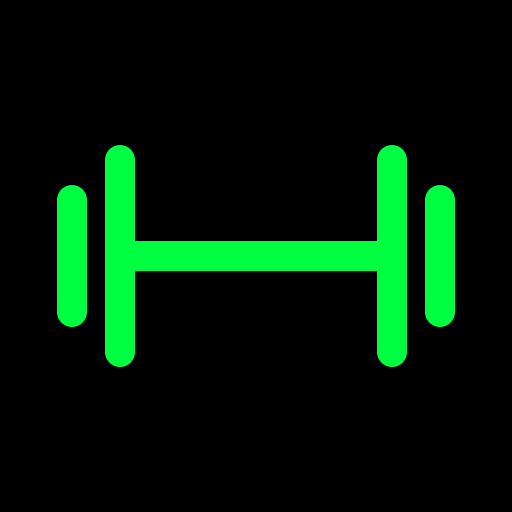
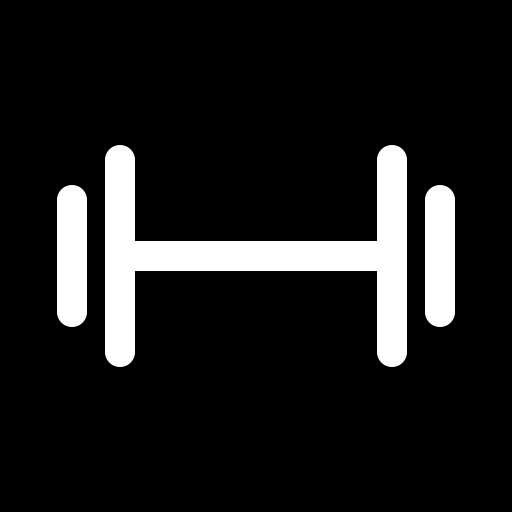
1.0.2: black-and-white theme

Changed region(s): [[0.0938, 0.2812, 0.9062, 0.7188]]

diff --git a/css/app.css b/css/app.css
@@ -10,9 +10,9 @@ nav { position: fixed; inset: auto 0 0 0; display: flex; background: #000; borde
   padding-bottom: env(safe-area-inset-bottom); z-index: 5; }
 nav a { flex: 1; display: flex; flex-direction: column; align-items: center; gap: 2px; padding: 8px 0 6px;
   color: var(--text-2); text-decoration: none; font-size: 11px; letter-spacing: 1px; }
-nav svg { width: 24px; height: 24px; fill: none; stroke: var(--green-dim); stroke-width: 2; stroke-linecap: square; }
+nav svg { width: 24px; height: 24px; fill: none; stroke: var(--accent-dim); stroke-width: 2; stroke-linecap: square; }
 nav a[aria-current] { color: var(--text); }
-nav a[aria-current] svg { stroke: var(--green); filter: drop-shadow(0 0 3px var(--glow)); }
+nav a[aria-current] svg { stroke: var(--accent); filter: drop-shadow(0 0 3px var(--glow)); }
 
 .logo { font: 900 18px var(--head); color: var(--text); }
 .workout { display: flex; align-items: flex-end; gap: 14px; font: 900 40px/.9 var(--head); letter-spacing: -1px; }
@@ -27,18 +27,18 @@ button.reminder { width: 100%; min-height: 44px; background: none; border: 0; bo
 .card { display: grid; grid-template-columns: 66px minmax(0, 1fr) 44px; gap: 10px;
   align-items: start; background: var(--surface); border: 1px solid var(--line); padding: 10px; cursor: pointer; }
 .card.opt:not(.sel) > .ico, .card.opt:not(.sel) > .mid, .card.opt:not(.sel) > .done { opacity: .4; }
-.card.opt.sel { border-color: var(--green); box-shadow: 0 0 0 1px var(--green) inset; }
+.card.opt.sel { border-color: var(--accent); box-shadow: 0 0 0 1px var(--accent) inset; }
 .card.plain { grid-template-columns: 66px minmax(0, 1fr); color: inherit; text-decoration: none; margin-bottom: 8px; }
 .card.plain .badge { margin: 6px 8px 0 0; }
 .title { display: block; width: 100%; min-height: 44px; padding: 0 0 6px; background: none; border: 0; text-align: left; }
 .title span { display: block; }
-.card.isdone .ru { text-decoration: line-through; text-decoration-color: var(--green); text-decoration-thickness: 2px; }
+.card.isdone .ru { text-decoration: line-through; text-decoration-color: var(--accent); text-decoration-thickness: 2px; }
 button.badge { min-height: 32px; padding: 2px 10px; }
 .last { margin-top: 6px; font-size: 12px; color: var(--text-2); }
 .done { align-self: center; justify-self: center; position: relative; width: 34px; height: 34px; padding: 0;
-  background: #000; border: 1px solid var(--green-dim); color: #000; font: 700 22px/1 var(--mono); }
+  background: #000; border: 1px solid var(--accent-dim); color: #000; font: 700 22px/1 var(--mono); }
 .done::before { content: ""; position: absolute; inset: -6px; } /* 46px touch target */
-.done[aria-checked="true"] { background: var(--green); border-color: var(--green); }
+.done[aria-checked="true"] { background: var(--accent); border-color: var(--accent); }
 .done[aria-checked="true"]::after { content: "✓"; }
 .addnote { display: inline-block; min-height: 32px; margin: 8px 8px 0 0; padding: 2px 10px; background: none;
   border: 1px dashed var(--line); color: var(--text-2); font-size: 11px; letter-spacing: 1px; }
@@ -50,7 +50,7 @@ button.badge { min-height: 32px; padding: 2px 10px; }
 
 .chips { display: flex; gap: 6px; overflow-x: auto; padding: 10px 0 2px; }
 .chip { flex: none; min-height: 44px; padding: 0 12px; background: #000; border: 1px solid var(--line); color: var(--text-2); }
-.chip[aria-pressed="true"] { background: var(--green); border-color: var(--green); color: #000; }
+.chip[aria-pressed="true"] { background: var(--accent); border-color: var(--accent); color: #000; }
 
 .head { display: flex; gap: 12px; align-items: center; margin: 8px 0; }
 .hero, .onerm { font: 700 40px/1.2 var(--mono); color: var(--text); }
@@ -63,11 +63,11 @@ button.badge { min-height: 32px; padding: 2px 10px; }
   background: rgba(0, 0, 0, .75); }
 .backdrop.center { align-items: center; padding: 24px; }
 .sheet { width: 100%; max-width: 640px; max-height: calc(100dvh - env(safe-area-inset-top) - 12px); overflow-y: auto;
-  overscroll-behavior: contain; background: var(--surface-raised); border-top: 1px solid var(--green);
+  overscroll-behavior: contain; background: var(--surface-raised); border-top: 1px solid var(--accent);
   padding: 8px 16px calc(env(safe-area-inset-bottom) + 20px); outline: none; }
 .sheet-top { display: flex; justify-content: space-between; align-items: center; }
 .x { width: 44px; height: 44px; background: none; border: 0; color: var(--text); font-size: 26px; }
-.dialog { max-width: 420px; background: var(--surface-raised); border: 1px solid var(--green); padding: 16px; }
+.dialog { max-width: 420px; background: var(--surface-raised); border: 1px solid var(--accent); padding: 16px; }
 .dialog .row .btn { flex: 1; }
 .previous { border: 1px solid var(--line); padding: 8px 10px; margin: 10px 0; }
 .weight { text-align: center; }
@@ -76,14 +76,14 @@ input.bignum, .bignum { width: 100%; text-align: center; font: 700 64px/1.2 var(
 .under { text-align: center; color: var(--text-2); }
 .stepper { display: grid; grid-template-columns: 1fr 44px 48px 44px; align-items: center; gap: 6px; margin: 10px 0; }
 .stepper output { text-align: center; font-size: 24px; color: var(--text); }
-.sq { min-width: 44px; height: 44px; background: #000; border: 1px solid var(--green); border-radius: 3px; color: var(--text); font-size: 20px; }
-.btn.primary.sq { background: var(--green); color: #000; }
+.sq { min-width: 44px; height: 44px; background: #000; border: 1px solid var(--accent); border-radius: 3px; color: var(--text); font-size: 20px; }
+.btn.primary.sq { background: var(--accent); color: #000; }
 .icongrid { display: grid; grid-template-columns: repeat(auto-fill, minmax(70px, 1fr)); gap: 6px; max-height: 240px; overflow-y: auto; }
 .pickicon { display: flex; justify-content: center; padding: 2px; background: #000; border: 1px solid transparent; }
-.pickicon[aria-pressed="true"] { border-color: var(--green); box-shadow: 0 0 8px var(--glow); }
+.pickicon[aria-pressed="true"] { border-color: var(--accent); box-shadow: 0 0 8px var(--glow); }
 
 .toast, .update { position: fixed; left: 12px; right: 12px; bottom: calc(env(safe-area-inset-bottom) + 68px);
-  background: var(--surface-raised); border: 1px solid var(--green); padding: 10px 12px; }
+  background: var(--surface-raised); border: 1px solid var(--accent); padding: 10px 12px; }
 .toast { z-index: 30; border-color: var(--red); }
 .update { z-index: 8; display: flex; justify-content: space-between; align-items: center; }
 .record { position: fixed; inset: 0; z-index: 40; display: flex; flex-direction: column; align-items: center;

diff --git a/css/theme.css b/css/theme.css
@@ -1,9 +1,9 @@
 /* Color tokens, fonts and base components. Dark only. */
 :root {
-  --bg: #000000; --surface: #050A05; --surface-raised: #0B160B; --line: #003B00;
-  --green: #00FF41; --green-dim: #008F11; --text: #FFFFFF; --text-2: #B3B3B3;
+  --bg: #000000; --surface: #080808; --surface-raised: #121212; --line: #333333;
+  --accent: #FFFFFF; --accent-dim: #8C8C8C; --text: #FFFFFF; --text-2: #B3B3B3;
   --red: #FF2B2B; --blue: #2F6BFF;
-  --glow: rgba(0, 255, 65, .6);
+  --glow: rgba(255, 255, 255, .6);
   --mono: ui-monospace, "SF Mono", Menlo, monospace;
   --head: -apple-system, "SF Pro Display", system-ui, sans-serif;
   color-scheme: dark;
@@ -23,11 +23,11 @@ h1 { font: 900 42px/.95 var(--head); font-stretch: condensed; text-transform: up
 button, .card, nav a { -webkit-user-select: none; user-select: none; }
 button { font: inherit; color: inherit; cursor: pointer; }
 button:disabled { opacity: .5; }
-:focus-visible { outline: 2px solid var(--green); outline-offset: 2px; }
+:focus-visible { outline: 2px solid var(--accent); outline-offset: 2px; }
 .btn { display: inline-flex; align-items: center; justify-content: center; min-width: 44px; min-height: 44px;
-  padding: 8px 14px; background: var(--bg); border: 1px solid var(--green); border-radius: 3px; color: var(--text);
+  padding: 8px 14px; background: var(--bg); border: 1px solid var(--accent); border-radius: 3px; color: var(--text);
   font: 700 14px var(--mono); letter-spacing: 1px; text-decoration: none; text-align: center; }
-.btn.primary { background: var(--green); color: #000; }
+.btn.primary { background: var(--accent); color: #000; }
 .btn.danger { background: var(--red); border-color: var(--red); color: #000; }
 .btn.danger-line { border-color: var(--red); color: var(--red); }
 .btn.dashed { border: 1px dashed var(--line); color: var(--text-2); }
@@ -37,25 +37,25 @@ button:disabled { opacity: .5; }
 .btn.sq { width: 44px; padding: 0; font-size: 20px; flex: none; }
 .btn.plain { justify-content: flex-start; text-align: left; border-color: var(--line); color: var(--text); }
 .btn.toggle { border-color: var(--line); color: var(--text-2); width: 100%; margin: 8px 0; }
-.btn.toggle[aria-pressed="true"] { border-color: var(--green); background: var(--green); color: #000; }
+.btn.toggle[aria-pressed="true"] { border-color: var(--accent); background: var(--accent); color: #000; }
 .flash { animation: flash 150ms ease-out; }
 @keyframes flash { 50% { box-shadow: 0 0 22px 6px var(--glow); } }
 
 /* 16px minimum: iOS zooms into smaller inputs. */
 input, select { font: 16px var(--mono); color: var(--text); background: var(--bg); border: 1px solid var(--line);
-  border-radius: 3px; min-height: 44px; padding: 8px 10px; width: 100%; caret-color: var(--green); }
-input:focus, select:focus { border-color: var(--green); outline: none; }
+  border-radius: 3px; min-height: 44px; padding: 8px 10px; width: 100%; caret-color: var(--accent); }
+input:focus, select:focus { border-color: var(--accent); outline: none; }
 /* WebKit ignores the height of a native select without this. */
 select { -webkit-appearance: menulist-button; height: 44px; }
 .field { display: block; margin: 10px 0; }
 
-.ico { flex: none; width: 66px; height: 66px; border: 1px solid var(--line); background: #000; color: var(--green);
+.ico { flex: none; width: 66px; height: 66px; border: 1px solid var(--line); background: #000; color: var(--accent);
   display: flex; align-items: center; justify-content: center; }
 .ico svg { width: 60px; height: 60px; filter: drop-shadow(0 0 3px var(--glow)); }
-.badge { display: inline-block; background: var(--green); color: #000; font: 700 13px var(--mono); padding: 1px 6px; border: 0; }
+.badge { display: inline-block; background: var(--accent); color: #000; font: 700 13px var(--mono); padding: 1px 6px; border: 0; }
 .badge-1rm { display: inline-block; font-size: 11px; color: #fff; background: var(--blue); padding: 0 5px; letter-spacing: 1px; }
 .mode { margin-left: 6px; font-size: 11px; color: var(--text-2); text-transform: uppercase; letter-spacing: 1px; }
-.or { display: inline-block; font-size: 11px; letter-spacing: 2px; color: #000; background: var(--green); padding: 0 6px; margin-bottom: 4px; }
+.or { display: inline-block; font-size: 11px; letter-spacing: 2px; color: #000; background: var(--accent); padding: 0 6px; margin-bottom: 4px; }
 .footnote { display: flex; align-items: center; gap: 4px; margin-top: 8px; padding-left: 8px; font-size: 12px;
   color: #FFD0D0; border-left: 2px solid var(--red); }
 .footnote b { color: var(--red); }

diff --git a/js/version.js b/js/version.js
@@ -1,3 +1,3 @@
 // Single source of the app version, shared by the page and the service worker.
 // Bump on EVERY deploy: it names the offline cache.
-self.APP_VERSION = '1.0.1';
+self.APP_VERSION = '1.0.2';
